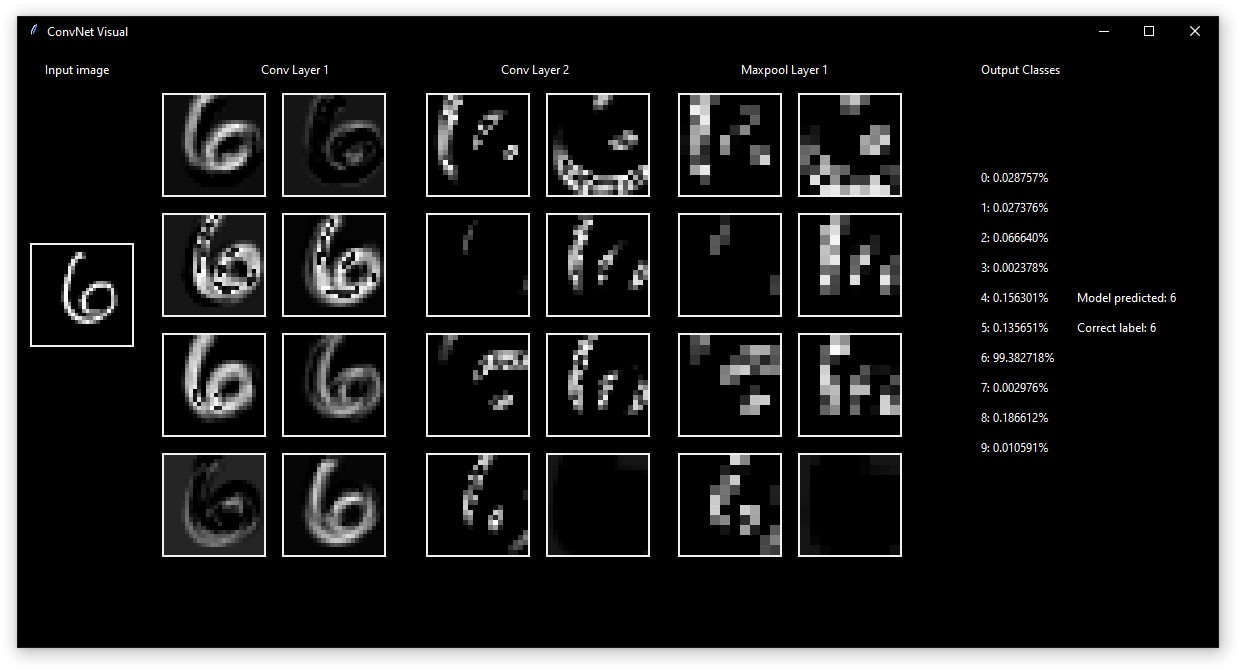
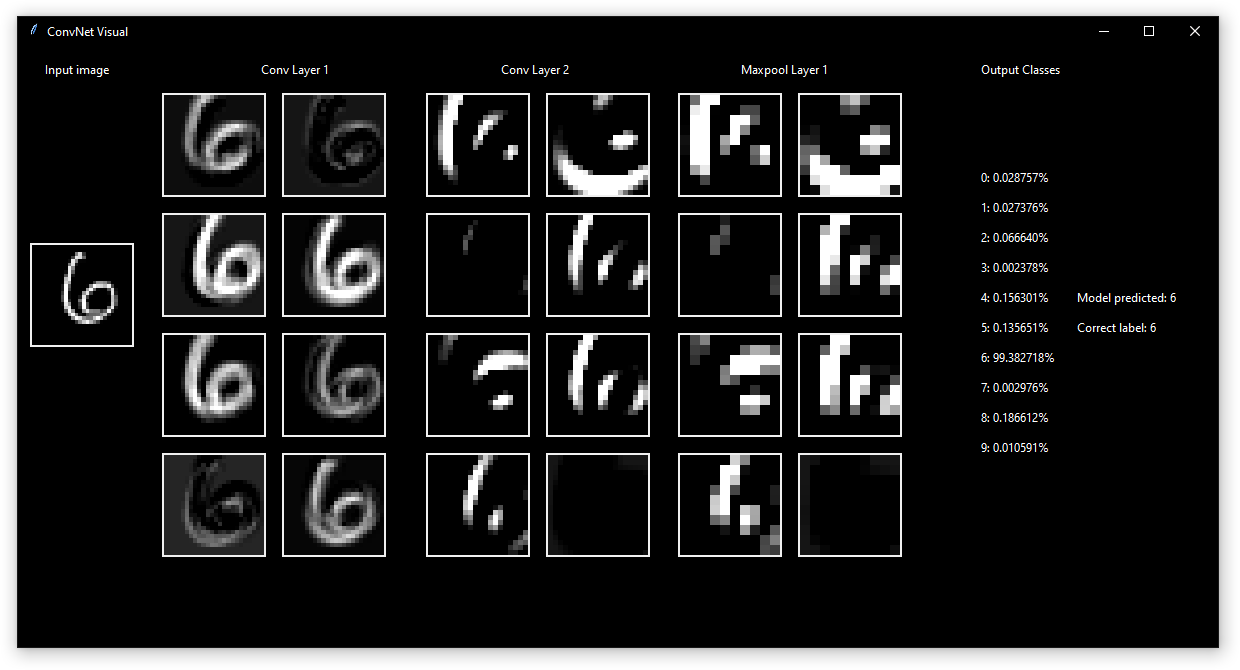
Change images for visualization

diff --git a/visualize.py b/visualize.py
@@ -41,13 +41,16 @@ def saveImage(h, w, image, name):
 
 for idx, d in enumerate(conv1):
     data = d * 255
+    data[data >= 255] = 255
     saveImage(data.shape[0], data.shape[1], data, str(idx)+'.png')
 for idx, d in enumerate(conv2):
     data = d * 255
+    data[data >= 255] = 255
     saveImage(data.shape[0], data.shape[1],
               data, str(idx + 8) + '.png')
 for idx, d in enumerate(maxpool1):
     data = d * 255
+    data[data >= 255] = 255
     saveImage(data.shape[0], data.shape[1],
               data, str(idx + 16) + '.png')
 
